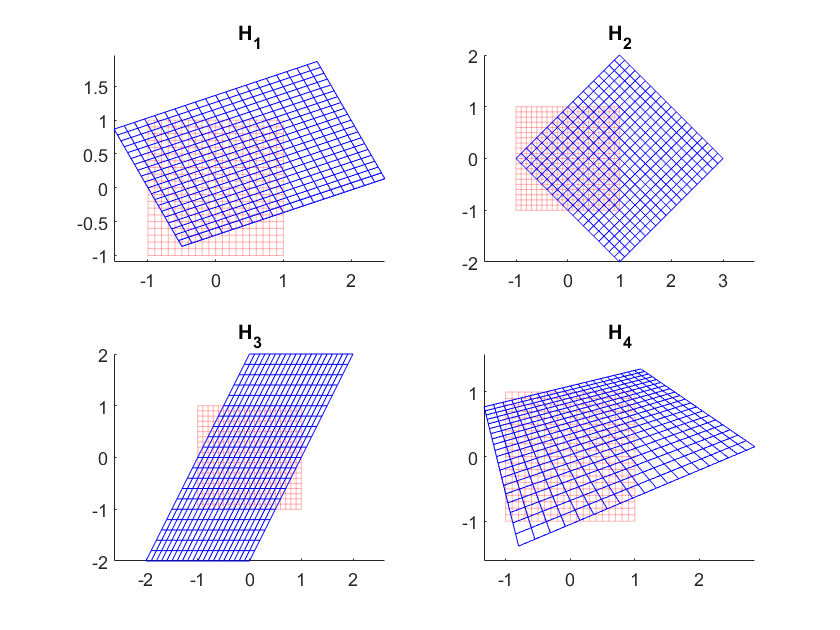
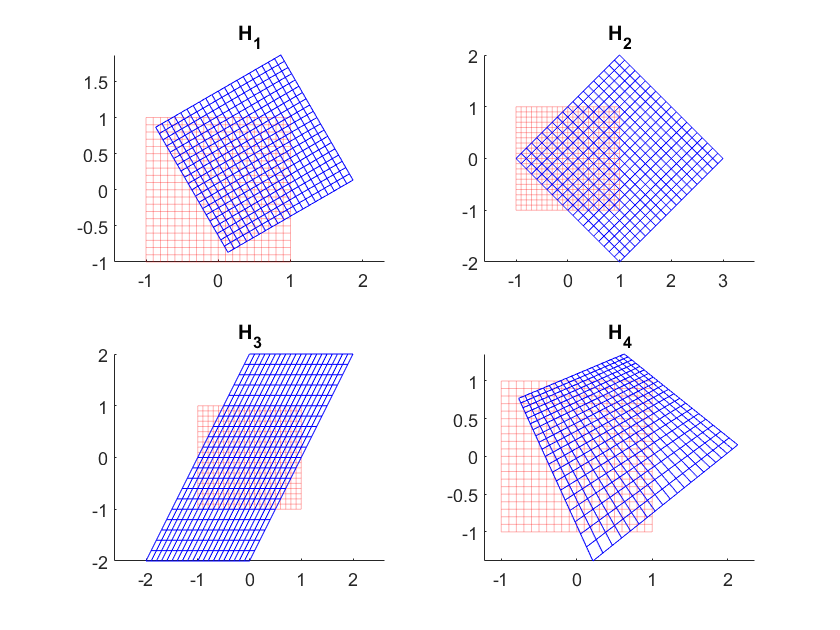
done with ass1

diff --git a/1/joel/ce3.m b/1/joel/ce3.m
@@ -3,11 +3,11 @@ close all;
 
 addpath("assignment1data/");
 load("compEx3.mat");
-
-H_1 = [3 -1 1;  1 sqrt(3) 1;  0   0 2];
-H_2 = [1 -1 1;  1 1       0;  0   0 1];
-H_3 = [1  1 0;  0 2       0;  0   0 1];
-H_4 = [3 -1 1;  1 sqrt(3) 1; .25 .5 2];
+    
+H_1 = [sqrt(3) -1 1;  1 sqrt(3) 1;  0   0 2];
+H_2 = [1       -1 1;  1 1       0;  0   0 1];
+H_3 = [1        1 0;  0 2       0;  0   0 1];
+H_4 = [sqrt(3) -1 1;  1 sqrt(3) 1; .25 .5 2];
 
 Hs = [H_1 H_2 H_3 H_4];
 
@@ -23,8 +23,8 @@ function plot_projection(H)
     load compEx3.mat startpoints endpoints;
     
     hold on
-    %plot([startpoints(1, :); endpoints(1, :)] , ...
-    %     [startpoints(2, :); endpoints(2, :)], 'r-', 'Color',[1, 0, 0, 0.3]);
+    plot([startpoints(1, :); endpoints(1, :)] , ...
+         [startpoints(2, :); endpoints(2, :)], 'r-', 'Color',[1, 0, 0, 0.3]);
    
 %     for i=1:length(p)
 %         p(i).Color = [p(i).Color 1];  % alpha=0.1

diff --git a/1/joel/ce2.m b/1/joel/ce2.m
@@ -21,7 +21,7 @@ inters = null([lines(:,2) lines(:,3)]');
 h_inters = inters ./ inters(end);
 plot_points(h_inters, 'm*')
 
-d = distance (lines(:,1), h_inters(1:2))
+d = distance(lines(:,1), h_inters(1:2))
 
 hold off
 
